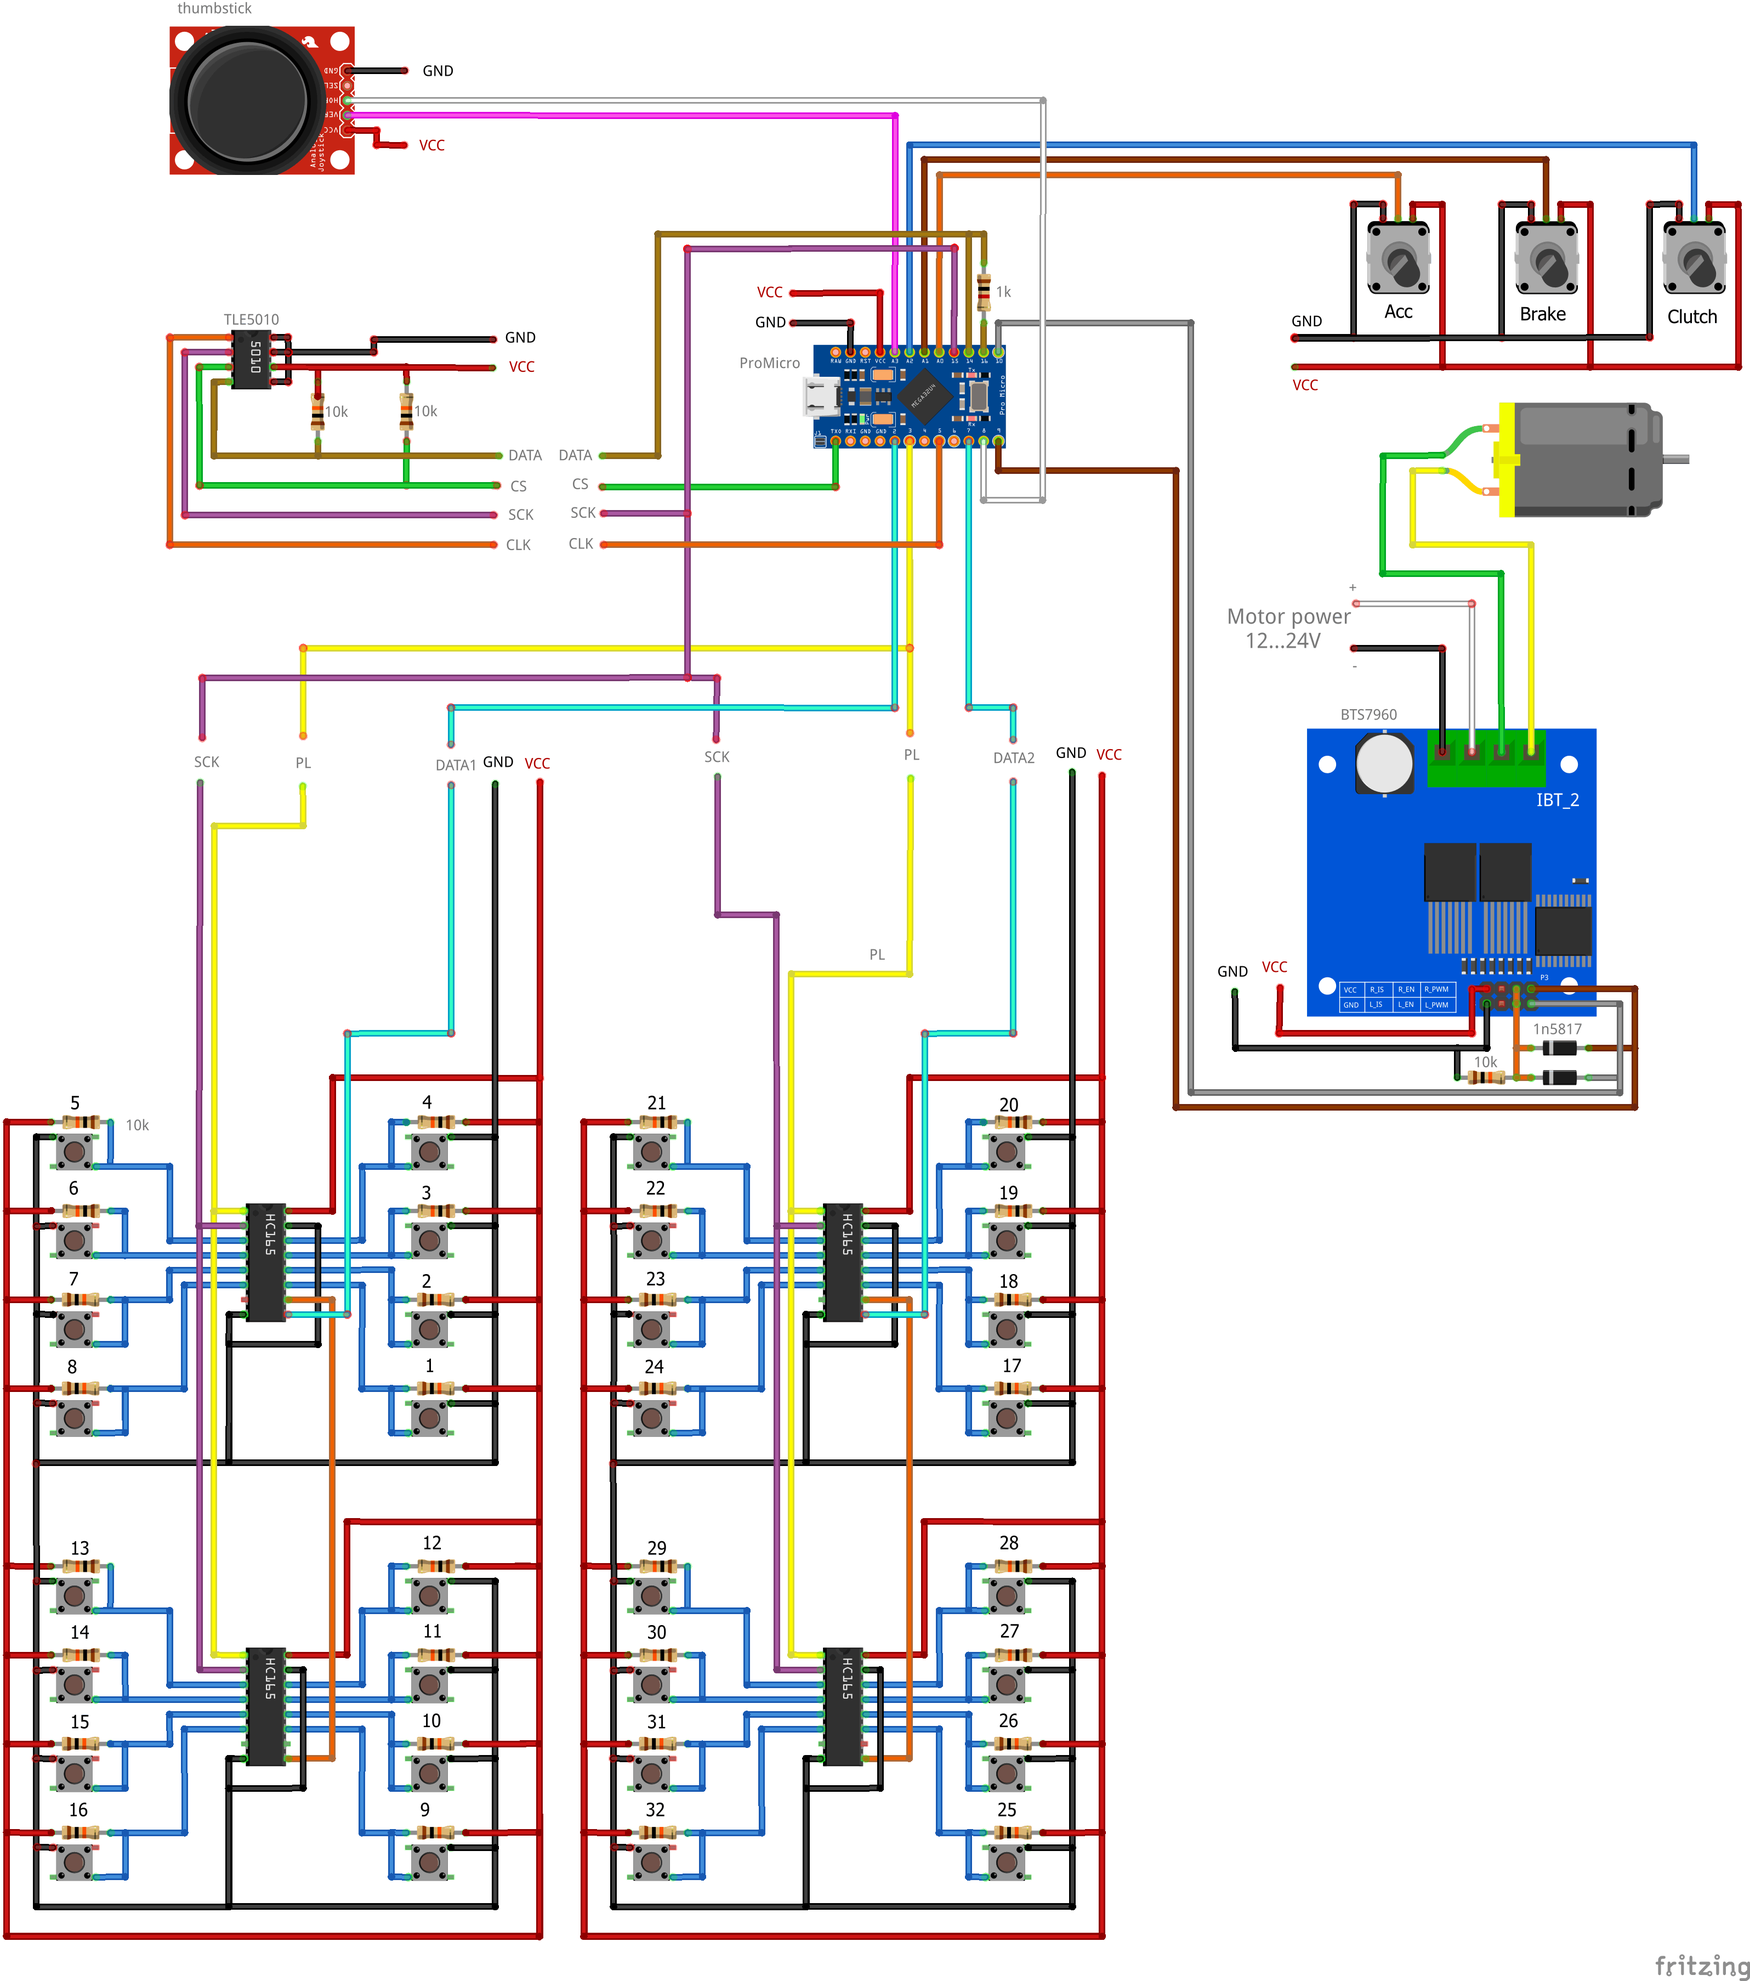
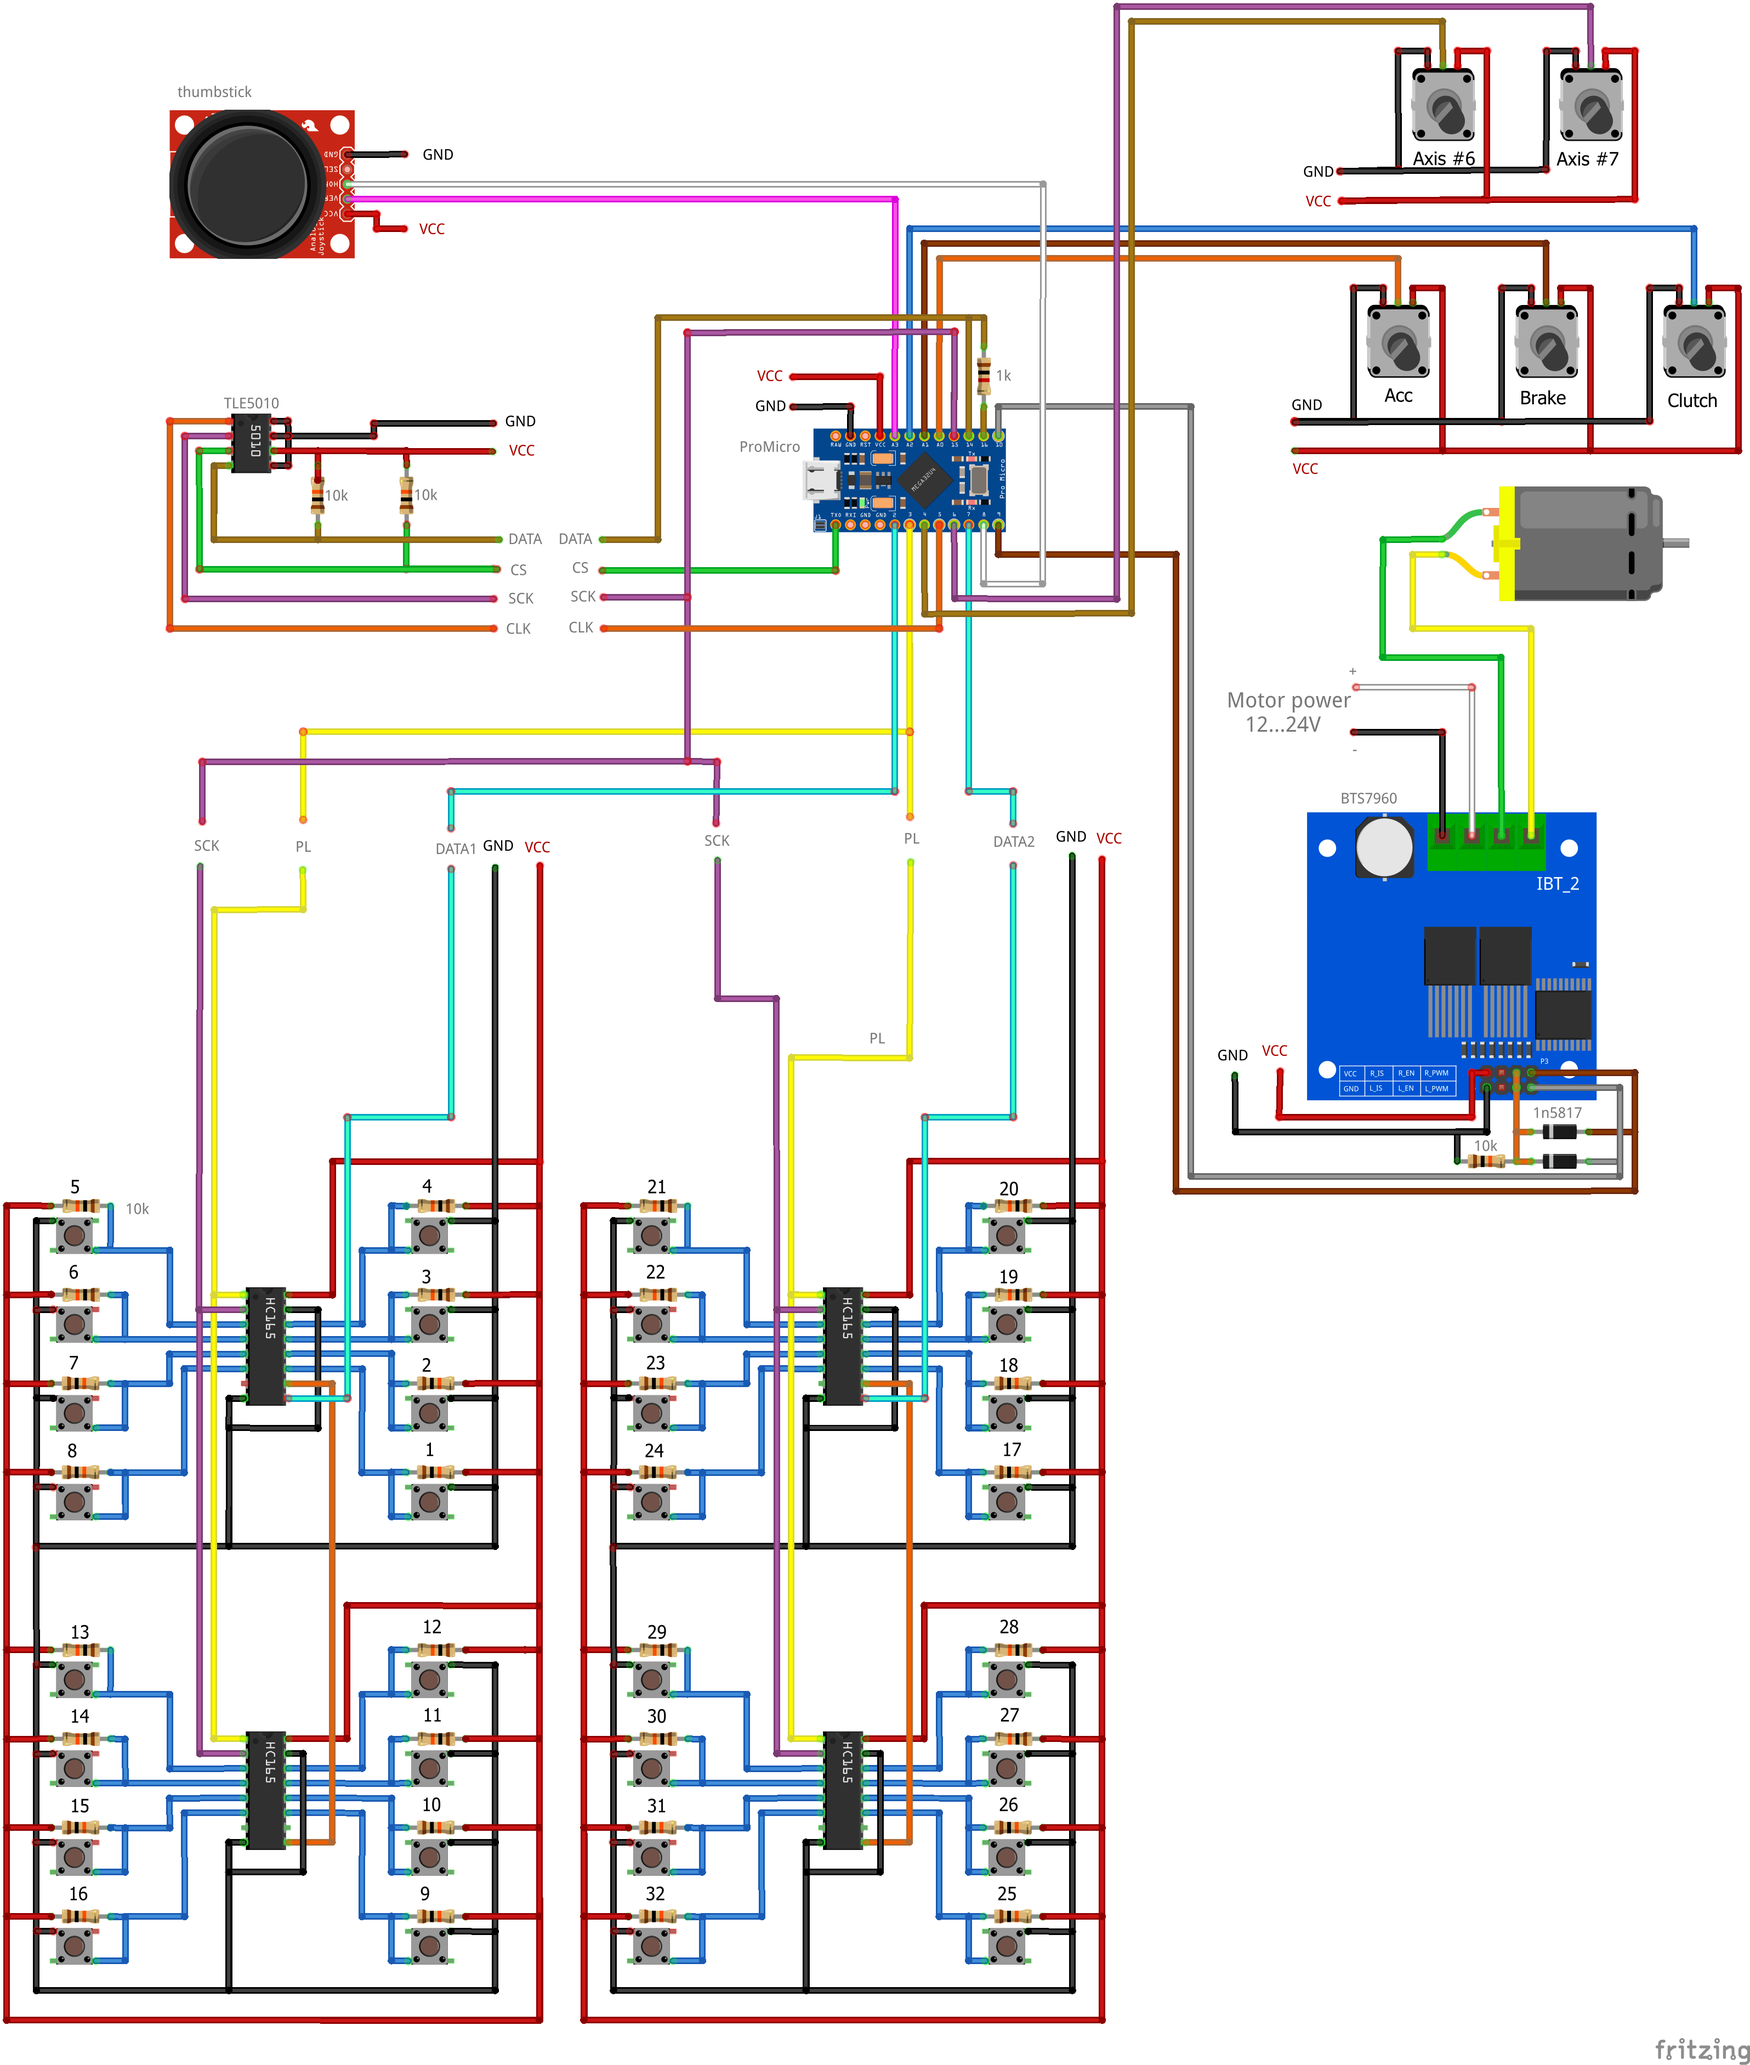
Add 2 analog axes

Changed region(s): [[0.0, 0.0, 1.0, 0.9922], [0.5583, 0.3411, 0.6203, 0.4341]]

diff --git a/AFFBWheel/hidDescriptor.h b/AFFBWheel/hidDescriptor.h
@@ -20,10 +20,12 @@ static const uint8_t wheelHIDDescriptor[] PROGMEM = {
       0x09, 0x33,                   // USAGE (Rx)
       0x09, 0x34,                   // USAGE (Ry)
       0x09, 0x35,                   // USAGE (Rz)
+      0x09, 0x36,                   // USAGE (Slider)
+      0x09, 0x37,                   // USAGE (Dial)
       0x16, 0x00, 0x80,             // LOGICAL_MINIMUM (-32768)
       0x26, 0xFF, 0x7F,             // LOGICAL_MAXIMUM (32767)
       0x75, 0x10,                   // REPORT_SIZE (16)
-      0x95, 0x06,                   // REPORT_COUNT (6)
+      0x95, 0x08,                   // REPORT_COUNT (8)
       0x81, 0x02,                   // INPUT (Data,Var,Abs)
       0xc0,                     // END_COLLECTION 
   

diff --git a/AFFBWheel/wheel.cpp b/AFFBWheel/wheel.cpp
@@ -14,6 +14,8 @@ Wheel_::Wheel_(void)
   analogAxes[AXIS_CLUTCH]=new Axis(MA_LEVEL_AXIS_CLUTCH);
   analogAxes[AXIS_AUX1]=new Axis(MA_LEVEL_AXIS_AUX1);
   analogAxes[AXIS_AUX2]=new Axis(MA_LEVEL_AXIS_AUX2);
+  analogAxes[AXIS_AUX3]=new Axis(MA_LEVEL_AXIS_AUX3);
+  analogAxes[AXIS_AUX4]=new Axis(MA_LEVEL_AXIS_AUX4);
 }
 
 
@@ -30,7 +32,8 @@ int16_t Wheel_::update(void)
 
   data.axes[4]=analogAxes[AXIS_AUX1]->value;
   data.axes[5]=analogAxes[AXIS_AUX2]->value;
-
+  data.axes[6]=analogAxes[AXIS_AUX3]->value;
+  data.axes[7]=analogAxes[AXIS_AUX4]->value;
   data.buttons=buttons;
 
   HID().RecvFfbReport();

diff --git a/AFFBWheel/config.h b/AFFBWheel/config.h
@@ -46,6 +46,9 @@
 //aux analog axes pins
 #define PIN_AUX1    A3
 #define PIN_AUX2    A8
+#define PIN_AUX3    A6
+#define PIN_AUX4    A7
+
 
 //different ways of connecting pedals. Choose only one!
 #define PEDALS_TYPE PT_INTERNAL           //use internal ADC
@@ -113,6 +116,8 @@
 #define MA_LEVEL_AXIS_CLUTCH  4
 #define MA_LEVEL_AXIS_AUX1    0
 #define MA_LEVEL_AXIS_AUX2    0
+#define MA_LEVEL_AXIS_AUX3    0
+#define MA_LEVEL_AXIS_AUX4    0
 
 //----------------------------Buttons-------------------------------------
 //different ways of connecting buttons. Choose only one!

diff --git a/AFFBWheel/wheel.h b/AFFBWheel/wheel.h
@@ -10,11 +10,13 @@
 #define AXIS_CLUTCH 2
 #define AXIS_AUX1 3
 #define AXIS_AUX2 4
+#define AXIS_AUX3 5
+#define AXIS_AUX4 6
 
 //Input Report 
 typedef struct
 {
-  int16_t axes[6];
+  int16_t axes[8];
   uint32_t buttons;
 } wheelData;
 
@@ -76,7 +78,7 @@ class Wheel_
 {
   public:
     AxisWheel* axisWheel;
-    Axis* analogAxes[5];
+    Axis* analogAxes[7];
     uint32_t buttons;
     Wheel_();
     int16_t update();

diff --git a/AFFBWheel/settings.h b/AFFBWheel/settings.h
@@ -25,7 +25,7 @@ struct SettingsData
 //all settings
 class SettingsEEPROM{
   public:
-    SettingsAxis axes[5];
+    SettingsAxis axes[7];
     SettingsData data;
 
     uint16_t range;

diff --git a/AFFBWheel/settings.cpp b/AFFBWheel/settings.cpp
@@ -29,7 +29,7 @@ void SettingsEEPROM::print()
     Serial.println();
   }
   
-  for(i=0;i<5;i++)
+  for(i=0;i<7;i++)
   {
     Serial.print(F("Axis "));
     Serial.print(i+1);

diff --git a/readme_rus.md b/readme_rus.md
@@ -2,7 +2,7 @@
 
 Это проект контроллера руля с обратной связью на Arduino.
 
-- 6 осей: руль (X), газ (Y), тормоз (Z), сцепление (Rx), и еще две дополнительно (Ry, Rz) (например для стика).
+- 8 осей: руль (X), газ (Y), тормоз (Z), сцепление (Rx), и еще 4 дополнительно (Ry, Rz, Slider, Dial) (например для стика, ручного тормоза, и т.п.).
 - 32 кнопки. 
 - Эффекты обратной связи - весь набор: constant/ramp/square/sine/triangle/sawtooth/spring/damper/inertia/friction
 - Диапазон руля можно менять: 1080/900/360/270/180 градусов, и вообще любое значение.
@@ -79,6 +79,8 @@
 **3** - **сцепление**  
 **4** - **доп ось 1**  
 **5** - **доп ось 2**  
+**6** - **доп ось 3**  
+**7** - **доп ось 4**  
 **значение отсутствует** - **выключить вывод**  
 Вывод данных тормозит работу, так что не забывайте отключать.
 
@@ -110,7 +112,7 @@
 
 - `debounce <count>`  
 Показать/установить значение антидребезга для кнопок.  
-Если это значение больше 0, кнопки будут регистрировать изменения только после <count> циклов (1 цикл - около 1мс)  
+Если это значение больше 0, кнопки будут регистрировать изменения только после `<count>` циклов (1 цикл - около 1мс)  
 Если у кнопок проблема с дребезгом - попробуйте увеличить это значение.
 
 - `gain <effectNum>`  
@@ -197,7 +199,7 @@ F - время расчета обратной связи
 loop/sec - кол-во циклов в секунду.
 
 - `fvaout`  
-вкл/выкл отладочный вывод значений усилия обратной связи, скорости и ускорения руля в оси Rx, Ry, Rz.  
+вкл/выкл отладочный вывод значений усилия обратной связи, скорости и ускорения руля в оси Rz, Slider, Dial.  
 Это значительно быстрее чем вывод в последовательный порт.
 
 

diff --git a/readme.md b/readme.md
@@ -4,7 +4,7 @@
 
 This is project of Arduino based wheel controller with force feedback.
 
-- 6 axes: steering(X), accelerator(Y), brake(Z), clutch(Rx), and 2 additional(Ry, Rz - e.g. for thumbstick).
+- 8 axes: steering(X), accelerator(Y), brake(Z), clutch(Rx), and 4 additional(Ry, Rz, Slider, Dial - e.g. for thumbstick, handbrake, etc).
 - 32 buttons.
 - FFB effects: constant/ramp/square/sine/triangle/sawtooth/spring/damper/inertia/friction
 - Wheel range can be changed on the fly: 1080/900/360/270/180 degree or any other value.
@@ -80,6 +80,8 @@ Axes are:
  **3** - **clutch**  
  **4** - **aux1**  
  **5** - **aux2**  
+ **6** - **aux3**  
+ **7** - **aux4**  
  **no value** - **disable output**  
 This output slows down, do not forget to disable it when you do not need it.  
 
@@ -194,7 +196,7 @@ F - time of FFB calculation
 loop/sec - loops per second  
 
 - `fvaout`  
-turn on/off debug output of FFB value, steering axis velocity and acceleration into axes Rx, Ry, Rz (clutch/aux1/aux2).  
+turn on/off debug output of FFB value, steering axis velocity and acceleration into axes Rz, Slider, Dial (aux2/aux3/aux4).  
 This is significally faster than output to serial port and allows to see graphs in apps like VKB Joystick Tester.
 
 <a name="althw"></a>
